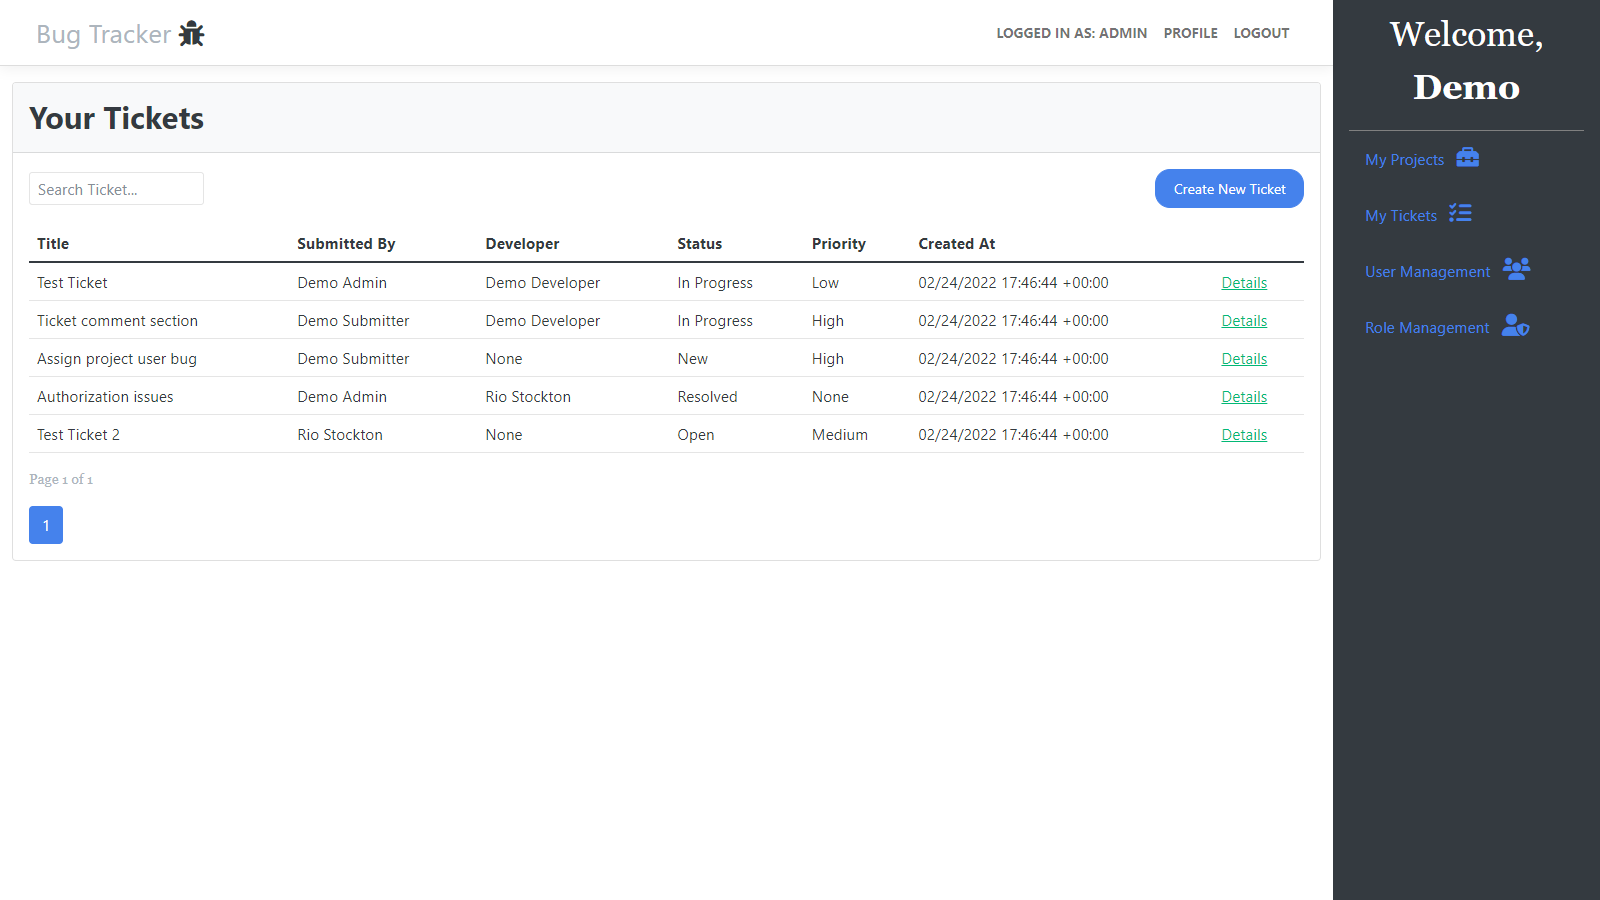
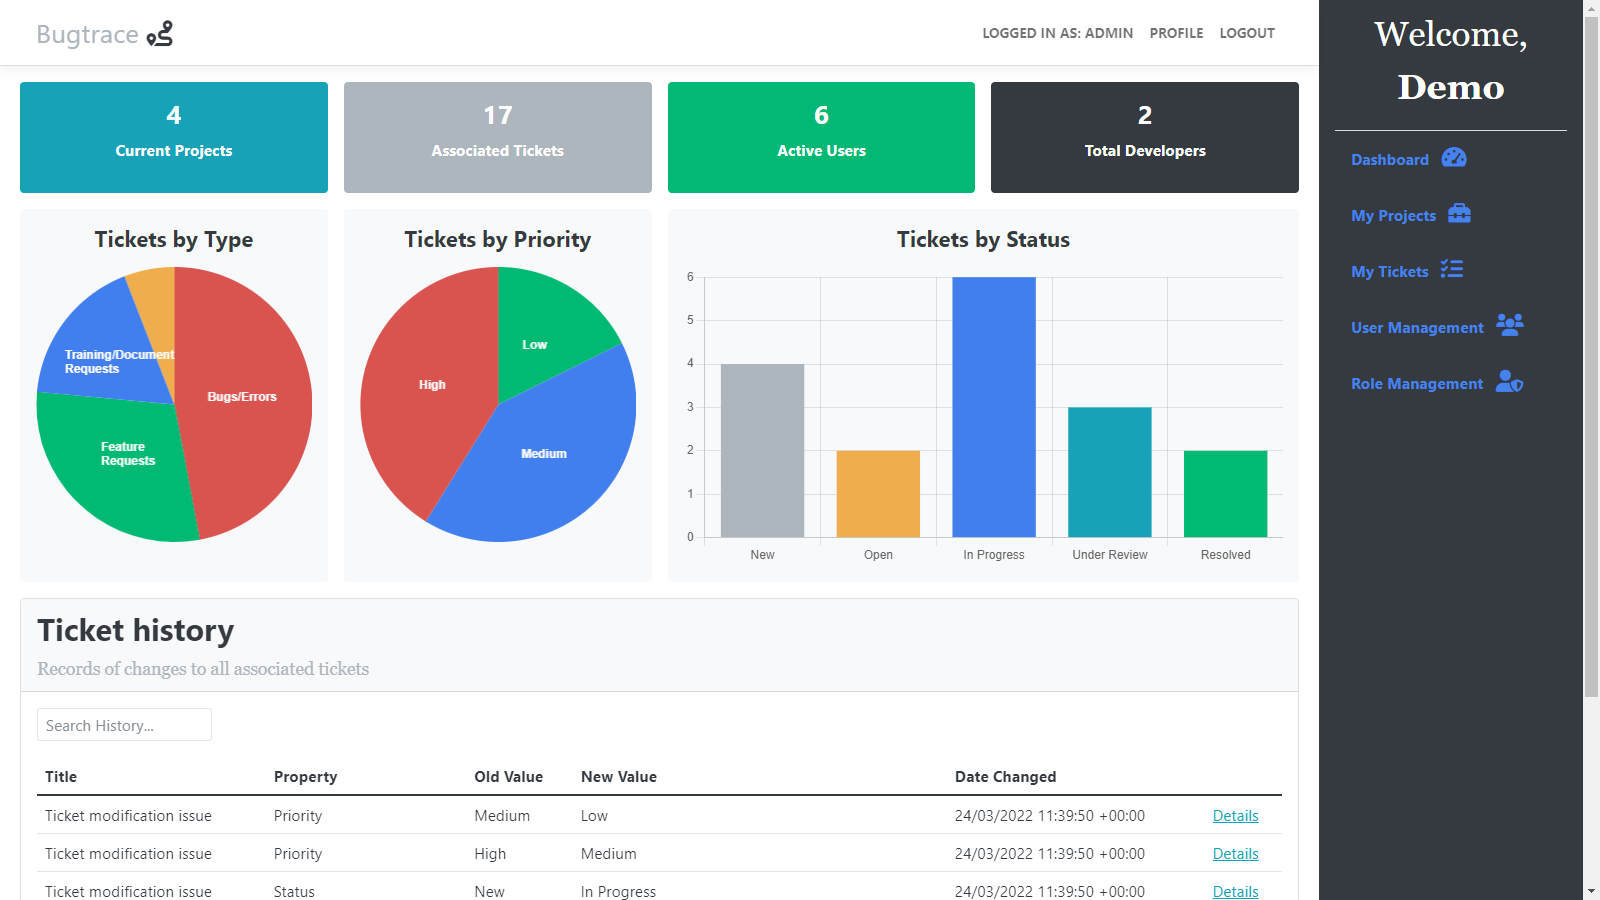
Replaced bug tracker image plus other minor fixes

diff --git a/src/data/portfolioItems.ts b/src/data/portfolioItems.ts
@@ -3,18 +3,18 @@ import { PortfolioItems } from "../models/PortfolioItems";
 // Define items for portfolio
 const portfolioItems: PortfolioItems = {
 	bugTracker: {
-		title: "Bug Tracker",
+		title: "Bugtrace",
 		src: "bug-tracker.png",
 		github: "bug-tracker",
-		link: "https://dotnet-bug-tracker.herokuapp.com/",
+		link: "https://bugtrace.herokuapp.com/",
 		desc: "A bug/issue tracking application built with C# .NET MVC that stores and maintains issues in the form of tickets for a collection of projects. Includes authentication and role-based authorization with Identity.",
 	},
 	techBlog: {
-		title: "Technology Blog",
+		title: "Terioch Blog",
 		src: "tech-blog.png",
 		github: "tech-blog-server",
 		link: "https://tech-blog-three.vercel.app/blog",
-		desc: "A programming tutorial blog built with C# .NET Web API and React that implements JWT authentication, claims-based authorization, and entity framework data access.",
+		desc: "A programming tutorial blog built with C# .NET Web API and React that implements JWT authentication, claims-based authorization, and Entity Framework data access.",
 	},
 	// wired: {
 	// 	title: "Wired",
@@ -31,7 +31,7 @@ const portfolioItems: PortfolioItems = {
 	// 	desc: "A website for a technology development company built in NextJS with Ghost as a headless CMS. The design was implemented using Styled Components, SCSS and Material UI.",
 	// },
 	bookStore: {
-		title: "Book Store",
+		title: "Infinite Book Store",
 		src: "book-store.png",
 		github: "infinite-book-store",
 		link: "https://book-store-nine.vercel.app",

diff --git a/src/components/intro.tsx b/src/components/intro.tsx
@@ -33,6 +33,7 @@ const useStyles = makeStyles((theme) => ({
 	},
 	Link: {
 		textDecoration: "none",
+		width: "max-content",
 	},
 }));
 
@@ -46,7 +47,7 @@ const Intro: React.FC = () => {
 		<section className="intro__container">
 			<div className="intro_titleContainer">
 				<h1 className="intro__titleFaded">Web Developer</h1>
-				<h1 className="intro__title">Specializing in C# .NET & React</h1>
+				<h1 className="intro__title">Specializing in C# .NET & MVC</h1>
 			</div>
 			{screenWidth > 968 && <Profiles component="Portfolio" />}
 			<a className={classes.Link} href="#contact">
